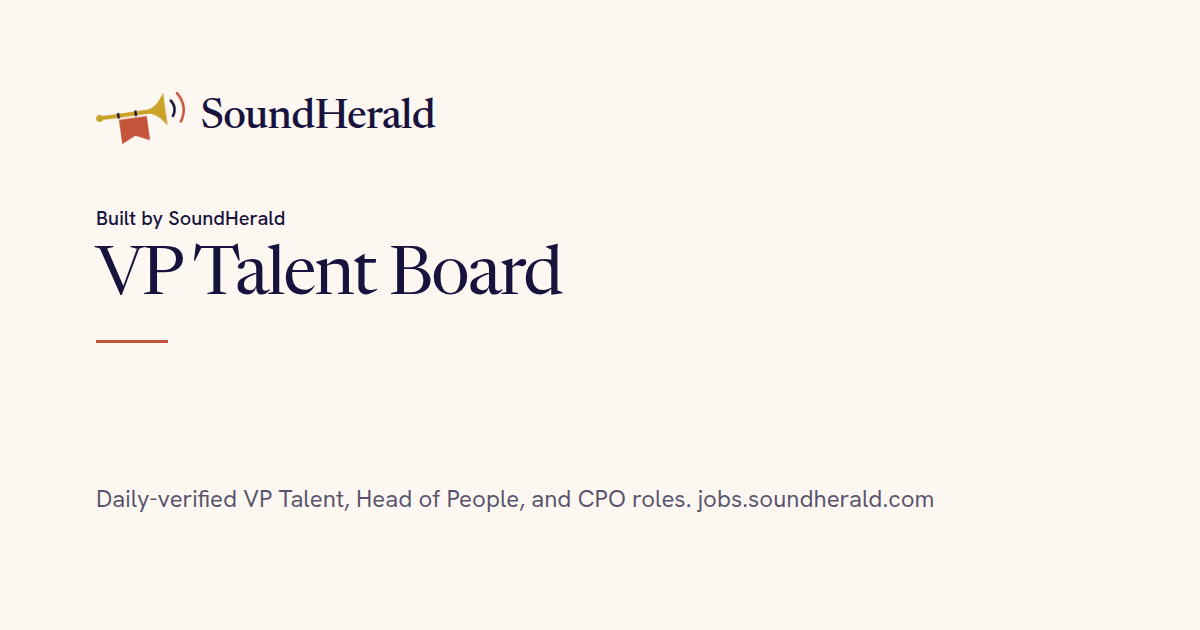
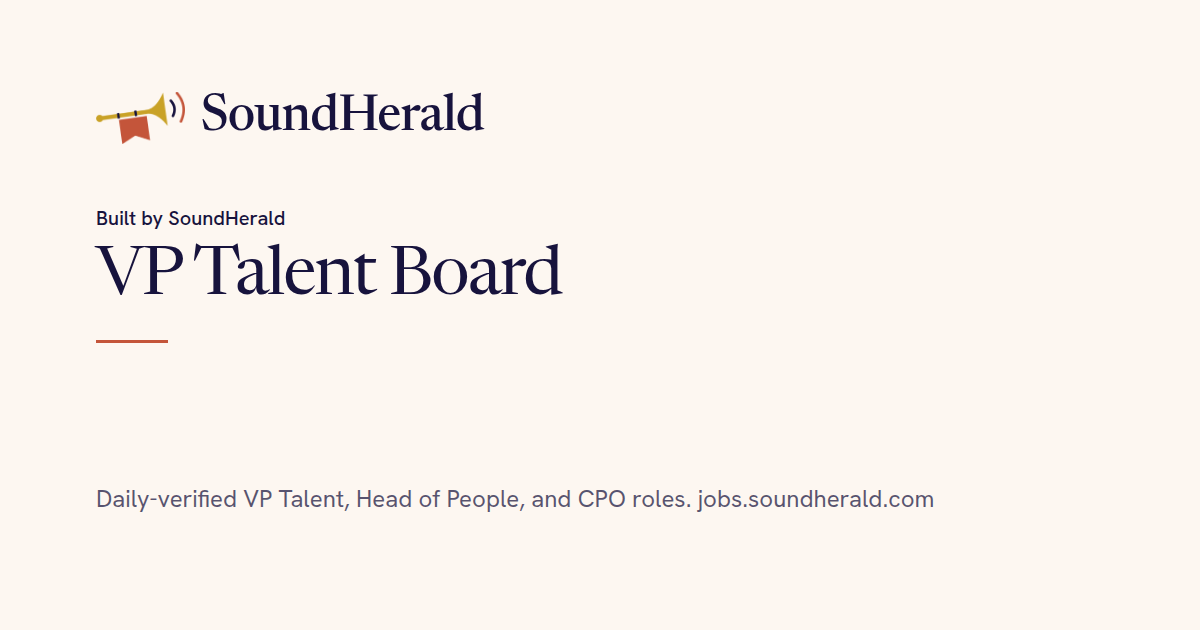
Enlarge the SoundHerald wordmark beside the horn
Set the header name to 2.6rem, and 2.05rem under 600px, and scale the Open Graph wordmark with it. The horn stays 42px on desktop and 34px on small screens.

Changed region(s): [[0.1542, 0.1508, 0.4008, 0.2111]]

diff --git a/index.html b/index.html
@@ -118,7 +118,7 @@ img { display: block; max-width: 100%; }
 .brand-name {
   font-family: "Newsreader", Georgia, serif;
   font-weight: 500;
-  font-size: 2.15rem;
+  font-size: 2.6rem;
   letter-spacing: -0.02em;
   line-height: 1;
   font-optical-sizing: auto;
@@ -345,7 +345,7 @@ details.row > summary::-webkit-details-marker { display: none; }
 }
 @media (max-width: 600px) {
   .brand img { height: 34px; }
-  .brand-name { font-size: 1.75rem; }
+  .brand-name { font-size: 2.05rem; }
 }
 @media (prefers-reduced-motion: reduce) {
   html { scroll-behavior: auto; }
